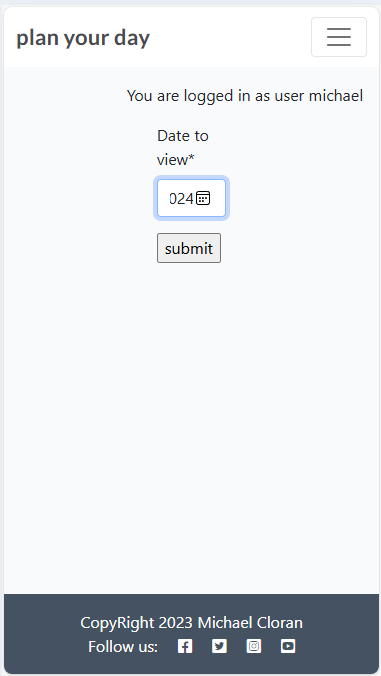
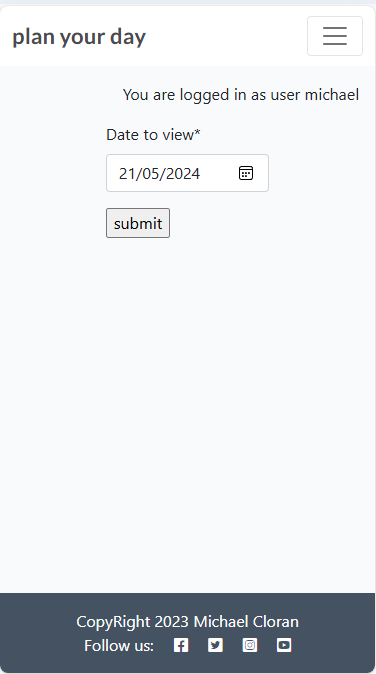
feat: set with of view_date form to 50 for better mobile ui

diff --git a/tasks/templates/tasks/statistics.html b/tasks/templates/tasks/statistics.html
@@ -7,7 +7,7 @@
 
 <!-- index.html content starts here -->
 {% if user.is_authenticated %}
-<div class="container-fluid w-25">
+<div class="container-fluid w-50">
     <div class="row ">
         <form id="taskStatistics" method="POST" action="{% url 'view_task_statistics'  %}" >
 
